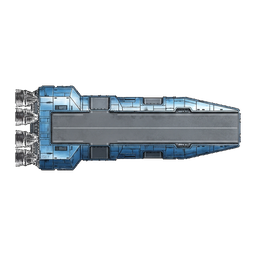
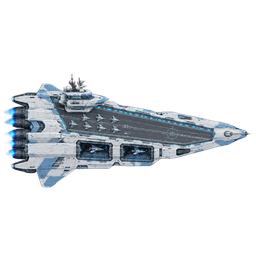
第38弾: ビジュアルの磨き込み — 反応の印のゴースト修正・自然の信号のアニメーション・背景・艦のスプライト
- 反応の印: 反応のたびのランダムなずらしで飛び回っていた → なめらかに寄せ・薄れで出入り・向きは描かない (真の艦首の向きが漏れていた)
- 推定円は0.5秒で浮かび上がる
- 霧のゆらぎ(3層の渦)・嵐の放電(手続きの稲妻)・熱泉(熱の輪と陽炎)をアニメーション
- 背景: 遠景の星雲と中景の光るガスをパララックスで
- 自艦の空母・敵の空母・敵の攻撃型を作り直し (Higgsfield・背景はAIで除去)
- ?v=20261101d・CLAUDE/TODO §3-52/HANDOVER

Claude-Session: https://claude.ai/code/session_01LxjgfMxPg6TL8nvNUr2bVB

Changed region(s): [[0.0, 0.2812, 0.9688, 0.75]]

diff --git a/prototype/game.js b/prototype/game.js
@@ -210,6 +210,7 @@ const SPRITE_FILES = {
     drone_decoy:        'assets/drone_decoy.png',
     drone_turret:       'assets/drone_turret.png',
     drone_buoy:         'assets/drone_buoy.png',
+    bg_space: 'assets/bg_space.jpg', bg_gas: 'assets/bg_gas.jpg', // 第38弾: 背景
     fx_saber_slash:     'assets/fx_saber_slash.png', fx_saber_blade: 'assets/fx_saber_blade.png', fx_saber_hit: 'assets/fx_saber_hit.png', // 第36弾
     drone_mech:         'assets/drone_mech.png', // 第20弾: 人型 (Higgsfield生成・透過256px)
     drone_barrier:      'assets/drone_barrier.png',      // 第22弾: ビームの盾 (Higgsfield生成・透過256px)
@@ -4973,41 +4974,36 @@ class Ship {
     // センサー痕跡(不確実性サークル + AIロックオン候補) — フォグ/ヒッグスの「手前」に描く専用パス
     drawSensorTrace(ctx) {
         if (this.isPlayer || this.hp <= 0) return;
-        if (!(this.contactLife > 0)) return;
-        let dispX = this.displayX, dispY = this.displayY;
-        // 追跡(解析)由来: 推定円と同じ補間中心に描く (円とゴーストがずれないように)
-        if (this.trackR) {
-            const sa = _signalAnalysis[enemySid(this)];
-            if (sa && sa.displayCenterX != null) { dispX = sa.displayCenterX; dispY = sa.displayCenterY; }
+        // 第38弾 (オーナー: 推定円の中で仮想艦影が激しく現れたり消えたりする): 反応の印は
+        //  ① 推定円で示している (追跡由来の) 相手には描かない — 円そのものが不確かさの表示
+        //  ② 位置は反応のたびに飛ばさず、なめらかに寄せる / 消える時もゆっくり薄れる
+        //  ③ 向きは描かない (音だけで艦首の向きは分からない — 旧: 真の向きで三角形を回していた)
+        const live = this.contactLife > 0 && !this.inVision && !this.trackR;
+        const tgtA = live ? Math.min(1, this.contactLife / 90) * (0.35 + this.contactAccuracy * 0.5) : 0;
+        this._ghA = (this._ghA || 0) + (tgtA - (this._ghA || 0)) * (tgtA > (this._ghA || 0) ? 0.08 : 0.03);
+        if (live) {
+            if (this._gx === undefined || Math.hypot(this.displayX - this._gx, this.displayY - this._gy) > 3000) { this._gx = this.displayX; this._gy = this.displayY; }
+            else { this._gx += (this.displayX - this._gx) * 0.04; this._gy += (this.displayY - this._gy) * 0.04; }
         }
+        if (this._ghA > 0.02 && this._gx !== undefined) {
+            const _gz = 1 / camera.zoom, acc = this.contactAccuracy;
+            const col = acc > 0.7 ? '0,255,170' : (acc > 0.4 ? '255,170,0' : '255,77,77');
+            const _gr = Math.max(this.radius * 1.6, 10 * _gz), ph = (_frameCount % 120) / 120;
+            ctx.save();
+            ctx.translate(this._gx, this._gy);
+            ctx.globalAlpha = this._ghA;
+            ctx.strokeStyle = 'rgb(' + col + ')'; ctx.fillStyle = 'rgba(' + col + ',0.25)'; ctx.lineWidth = 1.5 * _gz;
+            ctx.beginPath(); ctx.moveTo(0, -_gr); ctx.lineTo(_gr, 0); ctx.lineTo(0, _gr); ctx.lineTo(-_gr, 0); ctx.closePath(); ctx.fill(); ctx.stroke();
+            ctx.globalAlpha = this._ghA * (1 - ph) * 0.7;
+            ctx.beginPath(); ctx.arc(0, 0, _gr * (1.2 + ph * 1.8), 0, Math.PI * 2); ctx.stroke();
+            ctx.restore();
+        }
+        if (!live) return;
+        let dispX = this._gx, dispY = this._gy;
         const uncertaintyR = Math.max(20, (1 - this.contactAccuracy) * 400);
         const acc = this.contactAccuracy;
         const col = acc > 0.7 ? '0,255,170' : (acc > 0.4 ? '255,170,0' : '255,77,77');
         const lifeA = Math.min(1, this.contactLife / 60) * 0.4;
-
-        // ソナーエコー・ゴースト: コンタクト中の反応点をヒッグス雲の手前に描く。
-        // 有視界(inVision)なら実スプライトが見えているので重ねない。雲越しの反応を「見える成果」にする。
-        if (!this.inVision) {
-            const _gz = 1 / camera.zoom;
-            const _ga = Math.min(1, this.contactLife / 90) * (0.35 + acc * 0.55);
-            ctx.save();
-            ctx.translate(dispX, dispY);
-            ctx.rotate(this.angle);
-            ctx.globalAlpha = _ga;
-            ctx.strokeStyle = 'rgb(' + col + ')';
-            ctx.fillStyle = 'rgba(' + col + ',0.30)';
-            ctx.lineWidth = 1.5 * _gz;
-            const _gr = Math.max(this.radius * 1.6, 10 * _gz);
-            ctx.beginPath();
-            ctx.moveTo(_gr, 0);
-            ctx.lineTo(-_gr * 0.7, -_gr * 0.6);
-            ctx.lineTo(-_gr * 0.4, 0);
-            ctx.lineTo(-_gr * 0.7, _gr * 0.6);
-            ctx.closePath();
-            ctx.fill(); ctx.stroke();
-            ctx.restore();
-            ctx.globalAlpha = 1;
-        }
 
         if (!(acc < 0.95)) return; // 高精度コンタクトは不確実性サークル省略 (ゴーストのみ)
         if (this.trackR) return;   // 追跡由来は推定円(drawTriangulationCircle)が不確実性を表す
@@ -7728,6 +7724,83 @@ function drawSigZones(ctx) {
     }
 }
 // 自然/お宝の信号の実体 (有視界の内か、ヒッグス表示OFFの時だけ描く)
+// ═══ 第38弾 (オーナー): 自然の信号を「その場で起きている現象」に — 1枚の絵を置くのをやめ、同じ絵を何層も回し・揺らし・明滅させ、
+// 嵐は手続きの稲妻、熱泉は広がる熱の輪と立ちのぼる陽炎を重ねる (どれも加算合成・縁は柔らかく消える)
+function _fxGlow(ctx, r, c0, a) {
+    const g = ctx.createRadialGradient(0, 0, 0, 0, 0, r);
+    g.addColorStop(0, 'rgba(' + c0 + ',' + a + ')'); g.addColorStop(1, 'rgba(' + c0 + ',0)');
+    ctx.fillStyle = g; ctx.beginPath(); ctx.arc(0, 0, r, 0, Math.PI * 2); ctx.fill();
+}
+function _makeBolt(len, seg, jit) {
+    const pts = [[0, 0]]; let x = 0, y = 0;
+    const a0 = Math.random() * Math.PI * 2;
+    for (let i = 1; i <= seg; i++) {
+        const a = a0 + (Math.random() - 0.5) * 1.1;
+        x += Math.cos(a) * len / seg; y += Math.sin(a) * len / seg;
+        pts.push([x + (Math.random() - 0.5) * jit, y + (Math.random() - 0.5) * jit]);
+    }
+    return pts;
+}
+function _strokeBolt(ctx, pts, w) { ctx.lineWidth = w; ctx.beginPath(); ctx.moveTo(pts[0][0], pts[0][1]); for (let i = 1; i < pts.length; i++) ctx.lineTo(pts[i][0], pts[i][1]); ctx.stroke(); }
+function drawFieldFx(ctx, f, img, fade, t) {
+    ctx.save();
+    ctx.translate(f.x, f.y);
+    ctx.globalCompositeOperation = 'lighter';
+    if (f.kind === 'cloud') {
+        // 霧のゆらぎ: 同じ渦の絵を3層、逆向きにゆっくり回しながら呼吸させる → 渦が巻いて見える
+        ctx.globalAlpha = fade * 0.35; _fxGlow(ctx, 520, '70,150,230', 0.18);
+        for (let j = 0; j < 3; j++) {
+            const L = 900 * (0.7 + 0.22 * j) * (1 + 0.06 * Math.sin(t * 0.45 + j * 2.1 + f.ph));
+            ctx.save();
+            ctx.translate(Math.cos(t * 0.12 + j * 2 + f.ph) * 50, Math.sin(t * 0.09 + j * 1.7) * 50);
+            ctx.rotate(f.ph + j * 2.1 + t * (0.035 + j * 0.025) * (j % 2 ? -1 : 1));
+            ctx.globalAlpha = fade * (0.20 + 0.08 * Math.sin(t * 0.6 + j * 1.9 + f.ph));
+            ctx.drawImage(img, -L / 2, -L / 2, L, L);
+            ctx.restore();
+        }
+    } else if (f.kind === 'storm') {
+        // 嵐の放電: 下地の雲は薄く回り、放電中だけ枝分かれする稲妻が数フレームごとに走り、辺りを照らす。休み中も小さな火花
+        const on = !!f.on;
+        ctx.save(); ctx.rotate(f.ph + t * 0.06);
+        ctx.globalAlpha = fade * (on ? 0.55 + 0.25 * Math.random() : 0.16 + 0.04 * Math.sin(t * 3 + f.ph));
+        ctx.drawImage(img, -260, -260, 520, 520);
+        ctx.rotate(-t * 0.13); ctx.globalAlpha *= 0.6; ctx.drawImage(img, -200, -200, 400, 400);
+        ctx.restore();
+        if (on) {
+            ctx.globalAlpha = fade * (0.25 + 0.2 * Math.random()); _fxGlow(ctx, 650, '170,120,255', 0.35);
+            if (!f._bolts || _frameCount - (f._boltF || 0) > 3) {
+                f._boltF = _frameCount; f._bolts = [];
+                const n = 2 + Math.floor(Math.random() * 3);
+                for (let i = 0; i < n; i++) { const b = _makeBolt(260 + Math.random() * 260, 9, 70); f._bolts.push(b); const k = 3 + Math.floor(Math.random() * 4); const bb = _makeBolt(120 + Math.random() * 120, 5, 50).map(p => [p[0] + b[k][0], p[1] + b[k][1]]); f._bolts.push(bb); }
+            }
+            for (const b of f._bolts) {
+                ctx.globalAlpha = fade * 0.35; ctx.strokeStyle = '#9b6bff'; _strokeBolt(ctx, b, 16);
+                ctx.globalAlpha = fade * 0.9; ctx.strokeStyle = '#e8dcff'; _strokeBolt(ctx, b, 4);
+            }
+        } else if (Math.random() < 0.06) {
+            const b = _makeBolt(80 + Math.random() * 80, 5, 30);
+            ctx.globalAlpha = fade * 0.6; ctx.strokeStyle = '#c9a8ff'; _strokeBolt(ctx, b, 3);
+        }
+    } else {
+        // 熱泉: 脈打つ核・外へ広がる熱の輪・立ちのぼる陽炎の粒
+        const pulse = 1 + 0.07 * Math.sin(t * 2.2 + f.ph);
+        ctx.globalAlpha = fade * 0.5; _fxGlow(ctx, 380, '255,120,40', 0.22);
+        ctx.save(); ctx.rotate(f.ph + t * 0.04); ctx.globalAlpha = fade * (0.6 + 0.15 * Math.sin(t * 2.2 + f.ph)); ctx.drawImage(img, -230 * pulse, -230 * pulse, 460 * pulse, 460 * pulse); ctx.restore();
+        ctx.strokeStyle = '#ff9a4a';
+        for (let j = 0; j < 3; j++) {
+            const ph = ((t * 0.35 + j / 3 + f.ph) % 1);
+            ctx.globalAlpha = fade * 0.35 * (1 - ph); ctx.lineWidth = 10 * (1 - ph) + 2;
+            ctx.beginPath(); ctx.arc(0, 0, 80 + ph * 420, 0, Math.PI * 2); ctx.stroke();
+        }
+        ctx.fillStyle = '#ffb070';
+        for (let j = 0; j < 14; j++) {
+            const ph = ((t * 0.25 + j * 0.0714 + f.ph * 0.3) % 1), a = j * 2.4 + f.ph, r = 40 + ph * 300;
+            ctx.globalAlpha = fade * 0.45 * Math.sin(ph * Math.PI);
+            ctx.beginPath(); ctx.arc(Math.cos(a) * r, Math.sin(a) * r - ph * 60, 10 + 14 * ph, 0, Math.PI * 2); ctx.fill();
+        }
+    }
+    ctx.restore();
+}
 function drawFieldSignals(ctx) {
     const inv = 1 / camera.zoom, t = _frameCount / 60;
     for (const f of fieldSignals) {
@@ -7739,13 +7812,7 @@ function drawFieldSignals(ctx) {
             if (f.kind === 'cache') {
                 const L = Math.max(150, 30 * inv);
                 ctx.save(); ctx.globalAlpha = 0.95; ctx.translate(f.x, f.y); ctx.rotate(f.ph); ctx.drawImage(_fxImg, -L / 2, -L / 2, L, L); ctx.restore();
-            } else {
-                const L = f.kind === 'cloud' ? 900 : f.kind === 'storm' ? 520 : 460;
-                ctx.save(); ctx.globalCompositeOperation = 'lighter';
-                ctx.globalAlpha = fade * (f.kind === 'cloud' ? 0.45 : f.kind === 'storm' ? (f.on ? 0.9 : 0.15) : 0.7 + 0.2 * Math.sin(t * 2 + f.ph));
-                ctx.translate(f.x, f.y); ctx.rotate(f.ph + (f.kind === 'cloud' ? t * 0.05 : 0)); ctx.drawImage(_fxImg, -L / 2, -L / 2, L, L);
-                ctx.restore();
-            }
+            } else drawFieldFx(ctx, f, _fxImg, fade, t); // 第38弾: 重ね絵とアニメーション (旧: 1枚の絵を置くだけで浮いて見えた)
             if (f.kind === 'cache' && f.takeP > 0) { ctx.globalAlpha = 0.9; ctx.strokeStyle = '#ffe18c'; ctx.lineWidth = 2 * inv; ctx.beginPath(); ctx.arc(f.x, f.y, CACHE_R, -Math.PI / 2, -Math.PI / 2 + Math.PI * 2 * Math.min(1, f.takeP / CACHE_TIME)); ctx.stroke(); }
             if (f.kind === 'cache') { ctx.globalAlpha = 0.3; ctx.strokeStyle = '#ffe18c'; ctx.lineWidth = 1.5 * inv; ctx.setLineDash([6 * inv, 8 * inv]); ctx.beginPath(); ctx.arc(f.x, f.y, CACHE_R, 0, Math.PI * 2); ctx.stroke(); ctx.setLineDash([]); }
         } else if (f.kind === 'cloud') {
@@ -8154,9 +8221,9 @@ function drawTriangulationCircle(ctx) {
     _circScreen.length = 0;
     for (const sid in _signalAnalysis) {
         const sa = _signalAnalysis[sid];
-        if (!sa.fix) { sa.displayCenterX = null; continue; }
+        if (!sa.fix) { sa.displayCenterX = null; sa._fa = 0; continue; }
         const lo = sa.obs && sa.obs[sa.obs.length - 1];
-        if (sid !== lockedSignalId && (!lo || _frameCount - lo.f > TMA_KEEP)) continue; // 古い記録の円は出さない
+        if (sid !== lockedSignalId && (!lo || _frameCount - lo.f > TMA_KEEP)) { sa._fa = 0; continue; } // 古い記録の円は出さない
         _drawEstCircle(ctx, sid, sa, sid === lockedSignalId);
     }
 }
@@ -8174,7 +8241,8 @@ function _drawEstCircle(ctx, sid, sa, locked) {
     // 幅で色分け: 広い=橙 / 撃てる幅(ミサイルの終末シーカーに収まる)=緑 / 精密=シアン
     const col = R > 2400 ? 'rgb(255,150,40)' : R > 900 ? 'rgb(255,220,90)' : R > 350 ? 'rgb(80,255,140)' : 'rgb(100,220,255)';
     const inv = 1 / camera.zoom;
-    const fade = locked ? 1 : 0.6;
+    sa._fa = Math.min(1, (sa._fa || 0) + 0.035); // 第38弾: 円は突然出さずに0.5秒で浮かび上がる
+    const fade = (locked ? 1 : 0.6) * sa._fa;
     { const sp = worldToScreen(cx, cy); _circScreen.push({ sid, cx: sp.sx, cy: sp.sy, r: R * camera.zoom }); }
     ctx.save();
     ctx.globalAlpha = 0.07 * fade;
@@ -9485,6 +9553,25 @@ function _initNebulaTile() {
 }
 
 // 星雲をスクリーン空間のパララックス層として描画 (常にほぼ等倍=シャープ)
+// 第38弾: 画像のパララックス層 — スクリーン空間で敷き詰め、1枚おきに左右/上下を反転して継ぎ目を目立たせない
+function _drawPhotoLayer(ctx, img, pf, scale, alpha, op) {
+    if (!spriteReady(img)) return;
+    const W = cssW, H = cssH;
+    const TW = img.width * scale, TH = img.height * scale;
+    ctx.save();
+    ctx.setTransform(_dpr, 0, 0, _dpr, 0, 0);
+    ctx.globalAlpha = alpha; ctx.globalCompositeOperation = op;
+    ctx.imageSmoothingEnabled = true;
+    const px = -camera.x * camera.zoom * pf, py = -camera.y * camera.zoom * pf;
+    const i0 = Math.floor(-px / TW), j0 = Math.floor(-py / TH);
+    for (let j = j0; j * TH + py < H; j++) {
+        for (let i = i0; i * TW + px < W; i++) {
+            const x = i * TW + px, y = j * TH + py, fx = (i & 1) ? -1 : 1, fy = (j & 1) ? -1 : 1;
+            ctx.save(); ctx.translate(x + TW / 2, y + TH / 2); ctx.scale(fx, fy); ctx.drawImage(img, -TW / 2, -TH / 2, TW, TH); ctx.restore();
+        }
+    }
+    ctx.restore();
+}
 function _drawNebula(ctx) {
     if (!_nebulaTile) _initNebulaTile();
     const W = cssW, H = cssH;
@@ -9583,7 +9670,9 @@ function drawBackground(ctx) {
         ctx.imageSmoothingEnabled = true;
         ctx.imageSmoothingQuality = 'high';
         ctx.drawImage(spaceBgCanvas, 0, 0, FIELD_SIZE, FIELD_SIZE);
+        _drawPhotoLayer(ctx, SPRITES.bg_space, 0.025, 1.6, 0.85, 'source-over'); // 第38弾: 描いた遠景 (深い星雲)
         _drawNebula(ctx);      // シャープな星雲パララックス層 (引き伸ばしボケ解消)
+        _drawPhotoLayer(ctx, SPRITES.bg_gas, 0.07, 1.25, 0.30, 'lighter');        // 第38弾: 中景の光るガス (加算・少し速く流れる)
         _drawGiantStars(ctx);  // 鮮明な巨星パララックス層 (68倍拡大のボケ解消)
         _drawStarfield(ctx);   // 鮮明なパララックス星層を重ねる
     } else {

diff --git a/prototype/index.html b/prototype/index.html
@@ -14,7 +14,7 @@
     <link rel="manifest" href="manifest.webmanifest">
     <meta name="theme-color" content="#020a06">
     <!-- ?v= は game.js/style.css を変更するたびに必ず更新する (キャッシュバスティング) -->
-    <link rel="stylesheet" href="style.css?v=20261101c">
+    <link rel="stylesheet" href="style.css?v=20261101d">
     <link
         href="https://fonts.googleapis.com/css2?family=Orbitron:wght@400;700&family=Inter:wght@300;400;600&display=swap"
         rel="stylesheet">
@@ -735,7 +735,7 @@
     </div>
 
     <!-- ?v= は game.js を変更するたびに必ず更新する (ブラウザ/GitHub Pagesのキャッシュ対策) -->
-    <script src="game.js?v=20261101c"></script>
+    <script src="game.js?v=20261101d"></script>
     <script>
     // アイコンボタン ↔ hidden select の同期
     function setupIconSelect(groupId, selectId) {

diff --git a/HANDOVER.md b/HANDOVER.md
@@ -19,6 +19,7 @@
 - **第35弾**（§3-49）: Higgsfield で新要素のスプライト・部品アイコン31・記録画面/ドックの背景（41枚・約10クレジット）。生成は4件ずつ `generate_image_batch`→`jobs_wait`。
 - **第36弾**（§3-50）: ドローンの機動（横滑り撤去・戦闘機の一撃離脱・Techの格闘）・哨戒機（動く聴音局・落ちたら推定が消える/引き継ぐ）・一時停止・GEN MT・自艦ノイズ撤去・受信は未解析だけ・輸送船のレア部品。⚠ Drone の新しいタイマーはコンストラクタで0に初期化すること（undefined<=0 は false で一度も発動しなかった）。⚠ ドローンの有視界は霧で数十uまで縮むので至近700uは霧に関係なく探知。
 - **第37弾**（§3-51）: COMが輸送船に届かない原因（自機COMは目視確認が条件・敵は1回きりの判定・巡航では遅い）を計測で特定し修正。敵の艦載機は `enemyFighterStep`（自機の戦闘機と同じ一撃離脱）。
+- **第38弾**（§3-52）: ビジュアル。⚠ 暗い艦のスプライトは黒地を色で抜くと船体まで欠ける → 明るい灰色の背景で生成して Higgsfield `remove_background` で抜く。
 - **第28弾**（§3-42）: 説明書きを撤去・実弾でミサイル迎撃（25%+正面10%・AI×0.6・2斉射・1回限り）。**設計の相談（推定円の絞り込み・コロニー情報の扱い）はオーナーの判断待ち** — §3-42 C。
 - **第27弾**（§3-41）: 追跡=リングの点/推定円をタップ・射撃=長押し（推定円の内なら射撃命令）・右列の航法/追跡/射撃を撤去（停止は長押し・自動攻撃はメニュー）。
 - **第26弾**（§3-40）: 推定は全信号「円の中のどこか」（複数同時・十字撤去）・コロニー情報も距離まで分かれば円 / 修理はリペアキットだけ（1個+700・6秒・積み込みのみ）・他の回復は全部撤去 / コロニー補給は1つにつき1回（弾満タン・資材+3・完成品なし）/ コロニー5つ。
@@ -29,7 +30,7 @@
 - **第23弾の要旨**（詳細は `TODO.md` §3-37）: 補給所の廃止とコロニーへの集約（奪い合い・占有数で相手の方角/距離・ノードで精度・難破船は一度の回収）、S&D の勝ち負けと試合後の記録画面、信号の識別（不明→艦影n%）、観測できる兆候（静穏/受信/照射/攻撃・気配リング撤去）、エンジンごとの主な信号、縮尺定規、メニュー/COM設定画面の見切れ。
 - 接触の少なさ → 第24弾でコロニーを増やして対応（オーナー選択）。
 - **気付き（未対応）**: 敵側の識別は従来の「強い方の音」のまま / 副長の持ち替え助言が敵艦の信号にしか出ない（わずかな情報漏れ）/ 近距離の推定の非対称（§3-36 D）/ 自艦リングの方位点灯と目盛りの数字が重なる。
-- キャッシュバスティングは `?v=20261101c`。次にgame.js/style.cssを変更する際は必ず更新すること。
+- キャッシュバスティングは `?v=20261101d`。次にgame.js/style.cssを変更する際は必ず更新すること。
 
 ---
 

diff --git a/CLAUDE.md b/CLAUDE.md
@@ -232,6 +232,13 @@ prototype/
 - 結果（COM対戦12分×6・修正後）: 拿捕2回（自機COM1・敵1）。修正前の6試合は自機0・敵は偶然の1回
 - **敵の艦載機**（`enemyFighterStep`・`ENEMY_FTR_SPEED`=4.4）: 自機の戦闘機と同じ一撃離脱（機首の向きにだけ進む・機首の前±12°・900uで撃つ・突き抜けて離脱・後退/停止なし・威力×0.25）。目は自機の戦闘機と同じ（有視界900u・至近700u）・自艦か自機のドローン（戦闘機・Tech・哨戒機）を狙う・見つけたら母艦へ知らせる・見失ったら最後に見た所（20秒）→母艦の推定→母艦の周りを周回。旧: 戦艦と同じ交戦機動で止まって撃っていた。計測: 横滑り0°・止まる瞬間0・止まった潜航型の自艦を120秒で約45削る
 
+### 第38弾: ビジュアルの磨き込み — 反応の印・自然の信号のアニメーション・背景・艦のスプライト（2026-11-01 ✅ → `TODO.md` §3-52）
+- **反応の印のゴースト**（オーナー: 推定円の中で仮想艦影が激しく現れたり消えたり）: 原因は `applyContact` が反応のたびに表示位置をランダムにずらし直し（哨戒機・ドローンは6フレームごと）、その位置に「真の艦首の向き」で三角形を描いていたこと（向きの情報漏れも）。→ `drawSensorTrace`: 推定円で示している相手には描かない・位置はなめらかに寄せる（`_gx/_gy` 4%/frame）・現れ/消えは薄れで（`_ghA`）・向きは描かず菱形＋広がる輪。計測: 元の位置の1フレームの飛び最大36u → 印は1u・表示の切り替わり1回。推定円も0.5秒で浮かび上がる（`sa._fa`）
+- **自然の信号のアニメーション**（`drawFieldFx`）: 霧のゆらぎ=同じ渦の絵を3層・逆回転・呼吸 / 嵐の放電=下地の雲は薄く回り、放電中は枝分かれする手続きの稲妻（3フレームごとに描き直し・紫の太線＋白い芯）と照り返し・休み中も小さな火花 / 熱泉=脈打つ核・広がる熱の輪3本・立ちのぼる陽炎の粒
+- **背景**（`_drawPhotoLayer`）: Higgsfieldの遠景（`bg_space.jpg`・パララックス0.025）と光るガスの中景（`bg_gas.jpg`・加算・0.07）を、1枚おきに反転して敷き詰め継ぎ目を隠す
+- **艦のスプライト**（Higgsfield生成→`remove_background` で背景除去）: 自艦の空母（白×水色・斜めの飛行甲板）・敵の空母と敵の攻撃型（黒×赤）を作り直し。旧: 黒地を色で抜いていたため黒い船体まで透けて欠けていた
+- **3D化**: 未着手（相談）
+
 ### マップ
 - 円形マップ `MAP_RADIUS=35000`（`FIELD_SIZE`=直径70000）@`game.js:35`
 - ヒッグスの霧 = 濃度グリッド（第21弾・細かくまばら）+ 時間経過で増加（ゾーン圧縮）。リソースノード5-10個（第18弾: 常に表示・未確認は薄く。HIGGS帯で見ると確認済みになる）

diff --git a/TODO.md b/TODO.md
@@ -14,7 +14,7 @@
 
 **ステータス凡例**: ✅ 実装済 / 🚧 部分実装 / ❌ 未実装 / 🧊 構想のみ（仕様未確定）
 
-**最終コード検証**: 2026-10-31 / **`origin/main`（PR #150まで）+ 第37弾（§3-51）基準**
+**最終コード検証**: 2026-10-31 / **`origin/main`（PR #151まで）+ 第38弾（§3-52）基準**
 
 > ⚠ **来歴（2026-06-14）**: 旧開発枝 `claude/t01-implementation-start-dauj7q` は PR #35〜#38 を欠く
 > 取り残し枝だった（PR #34 は**マージ済み**）。ドキュメント3点を現mainから切り直して統合し直し、
@@ -1472,6 +1472,14 @@
 - ✅ 計測（修正後 12分×6）: 拿捕2（自機1・敵1）。輸送船が出ても双方が遠い試合（4/6）では起きない
 - ✅ 敵の艦載機 `enemyFighterStep`（efighter37.js: 横滑り0°・停止0・120秒で約45）
 - 残り: 輸送船の遭遇は位置次第（双方から1万uより遠いと誰も聞かない）
+
+### 3-52. ✅ 第38弾: ビジュアルの磨き込み (2026-11-01・`ccr-9807d3c5-7svt4k`)
+> オーナー: インジケータのブラッシュアップ（推定円の中で仮想艦影がゴースト化）/ 雲・磁気嵐がイラストが浮いているだけでチープ→アニメーション / 背景 / 敵空母のスプライトが欠けている / 自艦の空母がダサい / 3D化は要相談 / 必要ならHiggsfield
+- ✅ 反応の印（原因: `applyContact` のランダムなずらし直し＋真の艦首の向き）→ なめらか・薄れ・向きなし・推定円の相手には描かない（ghost38.js: 飛び 36u→1u）・推定円のフェードイン
+- ✅ 自然の信号のアニメーション（`drawFieldFx`）
+- ✅ 背景2層（`bg_space`/`bg_gas`）
+- ✅ 自艦の空母・敵の空母・敵の攻撃型を作り直し（背景はAIで除去）
+- 残り: 3D化の方針（オーナーと相談）/ 他の艦（自艦の攻撃型・潜航型・敵の潜航型）は今のまま
 
 ## 4. 🧊 構想段階（仕様未確定・将来）
 
